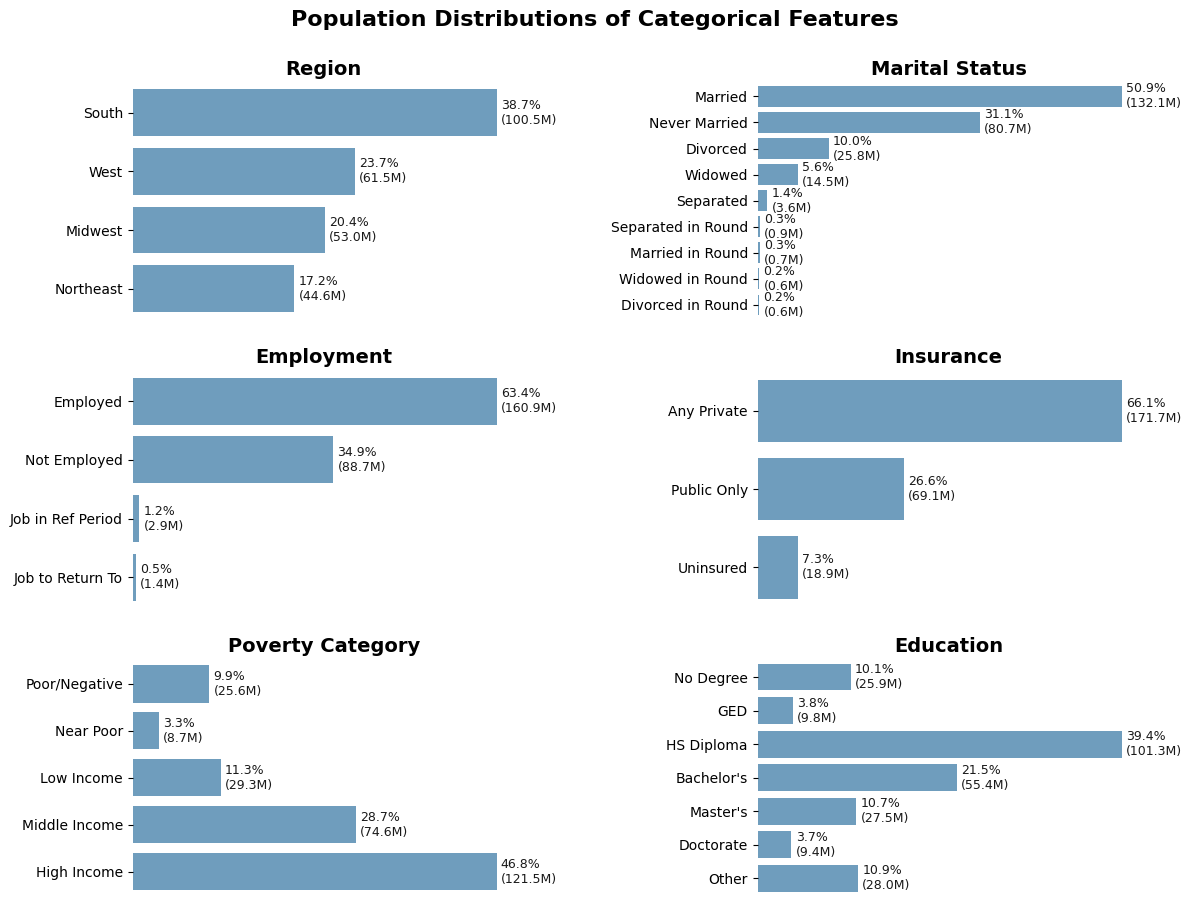
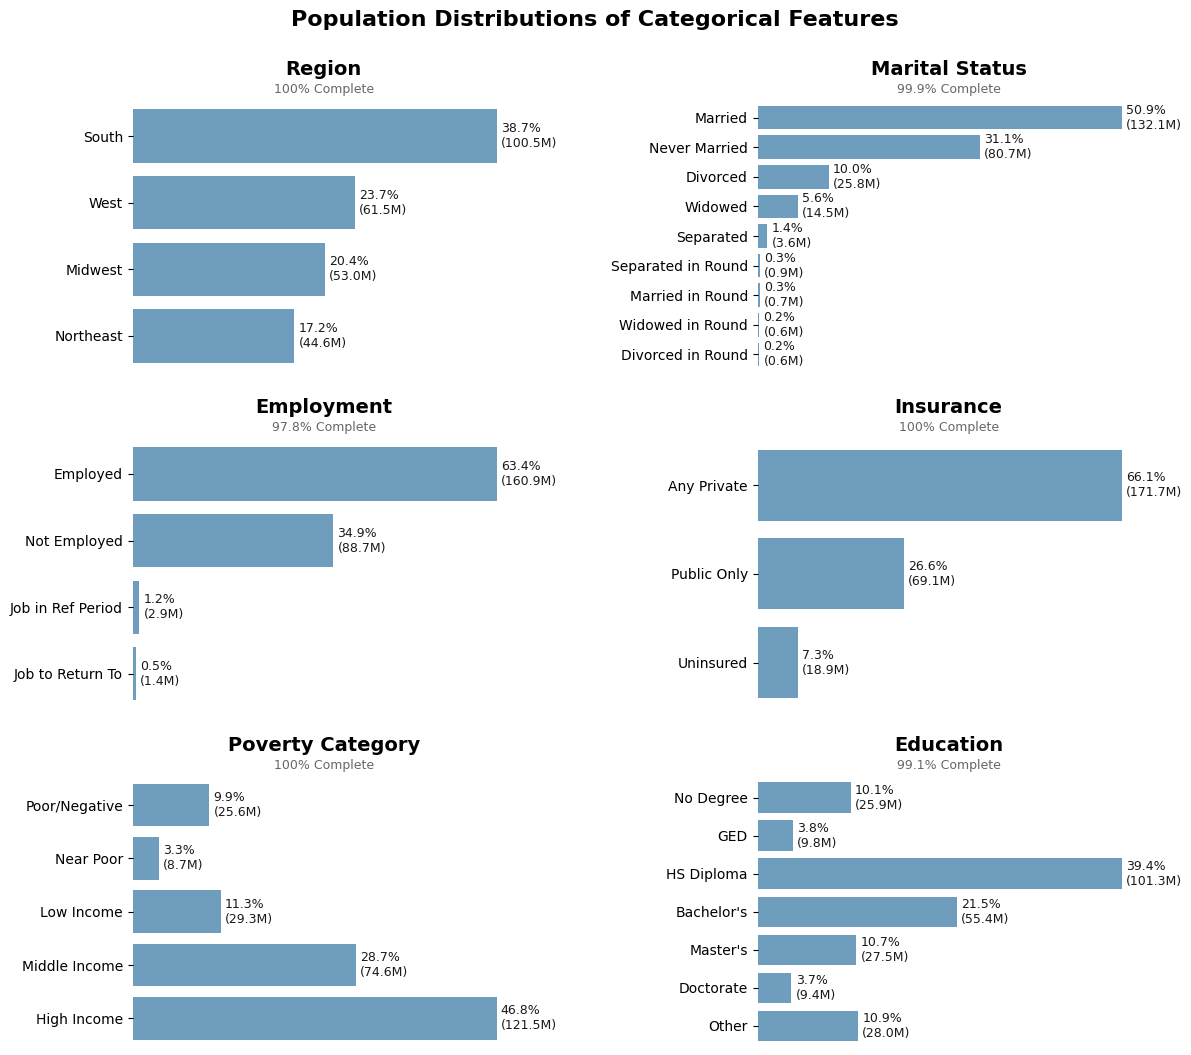
feat(eda): add helper function to plot binary distributions for sample and population

diff --git a/notebooks/medical_cost_prediction.py b/notebooks/medical_cost_prediction.py
@@ -1152,11 +1152,11 @@ plt.show()
 # </div>
 #
 # <div style="background-color:#fff6e4; padding:15px; border:3px solid #f5ecda; border-radius:6px;">
-#     📌 Visualize the distributions of nominal and ordinal features for sample and population. 
+#     📌 Visualize the distributions of categorical (nominal and ordinal) features for sample and population. 
 # </div>
 
 # %%
-# Helper Function: Plot the Distributions of Categorical (Nominal + Ordinal) Features
+# Helper Function: Plot the Distributions of Categorical Features
 def plot_categorical_distributions(df, nominal_features, ordinal_features, display_labels=None, categorical_label_map=None, weights=None):
     # Define subplot matrix grid
     n_plots = len(nominal_features + ordinal_features)
@@ -1236,11 +1236,12 @@ def plot_categorical_distributions(df, nominal_features, ordinal_features, displ
     plt.show()
 
 
-# Plot sample distributions (unweighted) of nominal and ordinal features (binary features in a separate plot)
+# Plot sample distributions (unweighted) of categorical features (binary features in a separate plot)
 plot_categorical_distributions(df, nominal_features, ordinal_features, display_labels, categorical_label_map)  
 
-# Plot population distributions (weighted) of nominal and ordinal features
+# Plot population distributions (weighted) of categorical features
 plot_categorical_distributions(df, nominal_features, ordinal_features, display_labels, categorical_label_map, weights="PERWT23F") 
+
 
 # %% [markdown]
 # <div style="background-color:#fff6e4; padding:15px; border:3px solid #f5ecda; border-radius:6px;">
@@ -1248,115 +1249,90 @@ plot_categorical_distributions(df, nominal_features, ordinal_features, display_l
 # </div>
 
 # %%
-# Sample Distributions (Unweighted) of Binary Features
-# Create 4x4 subplot matrix
-fig, axes = plt.subplots(4, 4, figsize=(12, 9))
-
-# Flatten axes for easier iteration
-axes = axes.flat
-
-# Iterate over all binary features
-for i, feature in enumerate(binary_features):
-    # Get current axes
-    ax = axes[i]
-
-    # Calculate unweighted sample frequencies for current feature
-    sample_counts = df[feature].value_counts().sort_index(ascending=False)
-    sample_percentages = sample_counts / sample_counts.sum() * 100
+# Helper Function: Plot the Distributions of Binary Features
+def plot_binary_distributions(df, binary_features, display_labels=None, categorical_label_map=None, weights=None):
+    # Define subplot matrix grid
+    n_plots = len(binary_features)
+    n_cols = 4
+    n_rows = math.ceil(n_plots / n_cols)
     
-    # Map integer to string labels for current feature
-    feature_label_map = categorical_label_map.get(feature, {})  
-    string_labels = [feature_label_map.get(label, label) for label in sample_percentages.index]  # Fallback to int if no str mapped
-     
-    # Create bar plot of current feature
-    sns.barplot(
-        x=sample_percentages.values,
-        y=string_labels,
-        ax=ax,
-        alpha=0.7
-    )
-
-    # Add value labels on bars
-    value_labels = [f"{pct:.1f}%\n({count:,})" for count, pct in zip(sample_counts, sample_percentages)]
-    for container in ax.containers:
-        ax.bar_label(container, labels=value_labels, padding=3, fontsize=9, alpha=0.9)
-
-    # Calculate completion rate
-    completion_rate = df[feature].count() / len(df) * 100
-    completion_label = "100% Complete" if completion_rate >= 99.95 else f"{completion_rate:.1f}% Complete"
-
-    # Customize current bar plot
-    ax.set_title(display_labels.get(feature, feature), fontsize=12, fontweight="bold", pad=18)
-    ax.annotate(completion_label, xy=(0.5, 1), xytext=(0, 4),
-                xycoords="axes fraction", textcoords="offset points",
-                ha="center", va="bottom", fontsize=8, color="#666666")
-    ax.set_xlabel("")
-    ax.set_ylabel("")
-    ax.set_xticks([])  # Remove x-axis tick marks and labels
-    sns.despine(ax=ax, left=True, bottom=True)  # Removes all 4 borders
-
-# Customize bar plot matrix
-fig.suptitle("Sample Distributions of Binary Features", fontsize=16, fontweight="bold", y=1)
-fig.tight_layout(h_pad=3.0, w_pad=8.0)  # Adjust layout to prevent overlapping subplots
-
-# Show bar plot matrix
-plt.show()
-
-# %%
-# Population Distributions (Weighted) of Binary Features
-# Create 4x4 subplot matrix
-fig, axes = plt.subplots(4, 4, figsize=(12, 9))
-
-# Flatten axes for easier iteration
-axes = axes.flat
-
-# Iterate over all binary features
-for i, feature in enumerate(binary_features):
-    # Get current axes
-    ax = axes[i]
-
-    # Calculate weighted population frequencies for current feature
-    pop_counts = df.groupby(feature)["PERWT23F"].sum().sort_index(ascending=False)
-    pop_percentages = pop_counts / pop_counts.sum() * 100
+    # Create subplot matrix
+    fig, axes = plt.subplots(n_rows, n_cols, figsize=(n_cols * 3, n_rows * 2))
     
-    # Map integer to string labels for current feature
-    feature_label_map = categorical_label_map.get(feature, {})  
-    string_labels = [feature_label_map.get(label, label) for label in pop_percentages.index]  # Fallback to int if no str mapped
-     
-    # Create bar plot of current feature
-    sns.barplot(
-        x=pop_percentages.values,
-        y=string_labels,
-        ax=ax,
-        alpha=0.7
-    )
+    # Flatten axes for easier iteration
+    axes_flat = axes.flat
+    
+    # Iterate over all categorical features
+    for i, feature in enumerate(binary_features):
+        # Get current axes
+        ax = axes_flat[i]
+    
+        # Population (weighted)
+        if weights: 
+            # Calculate counts 
+            counts = df.groupby(feature)[weights].sum()  
+            # Calculate completion rate
+            completion_rate = df.loc[df[feature].notna(), weights].sum() / df[weights].sum() * 100
+        # Sample (unweighted)
+        else:   
+            counts = df[feature].value_counts()  
+            completion_rate = df[feature].count() / len(df) * 100
 
-    # Add value labels on bars
-    value_labels = [f"{pct:.1f}%\n({count/1e6:.1f}M)" for count, pct in zip(pop_counts, pop_percentages)]
-    for container in ax.containers:
-        ax.bar_label(container, labels=value_labels, padding=3, fontsize=9, alpha=0.9)
+        # Sort categories
+        counts = counts.sort_index(ascending=False)  # Sorts "No" (2) before "Yes" (1)
+        
+        # Calculate percentages
+        percentages = counts / counts.sum() * 100
+        
+        # Map integer to string labels for current feature
+        feature_label_map = categorical_label_map.get(feature, {})  
+        string_labels = [feature_label_map.get(label, label) for label in percentages.index]  # Fallback to int if no str mapped
+         
+        # Create bar plot of current feature
+        sns.barplot(
+            x=percentages.values,
+            y=string_labels,
+            ax=ax,
+            alpha=0.7
+        )
+    
+        # Add value labels on bars
+        if weights:
+            value_labels = [f"{pct:.1f}%\n({count/1e6:.1f}M)" for pct, count in zip(percentages, counts)]
+        else:
+            value_labels = [f"{pct:.1f}%\n({count:,})" for pct, count in zip(percentages, counts)]
+        for container in ax.containers:
+            ax.bar_label(container, labels=value_labels, padding=3, fontsize=8, alpha=0.9)
+    
+        # Customize current bar plot
+        ax.set_title(display_labels.get(feature, feature), fontsize=12, fontweight="bold", pad=18)
+        completion_rate_label = "100% Complete" if completion_rate >= 99.95 else f"{completion_rate:.1f}% Complete"
+        ax.annotate(  # Annotates completion rate under title
+            completion_rate_label, xy=(0.5, 1), xytext=(0, 4), xycoords="axes fraction", textcoords="offset points", 
+            ha="center", va="bottom", fontsize=8, color="#666666"
+        )
+        ax.set_xlabel("")
+        ax.set_ylabel("")
+        ax.set_xticks([])  # Removes x-axis tick marks and labels
+        sns.despine(ax=ax, left=True, bottom=True)  # Removes all 4 borders
 
-    # Calculate completion rate
-    completion_rate = df.loc[df[feature].notna(), "PERWT23F"].sum() / df["PERWT23F"].sum() * 100
-    completion_label = "100% Complete" if completion_rate >= 99.95 else f"{completion_rate:.1f}% Complete"
+    # Hides unused subplots
+    for j in range(i + 1, len(axes_flat)):
+        axes_flat[j].axis("off")  
 
-    # Customize current bar plot
-    ax.set_title(display_labels.get(feature, feature), fontsize=12, fontweight="bold", pad=18)
-    ax.annotate(completion_label, xy=(0.5, 1), xytext=(0, 4),
-                xycoords="axes fraction", textcoords="offset points",
-                ha="center", va="bottom", fontsize=8, color="#666666")
+    # Customize bar plot matrix
+    fig.suptitle(f"{'Population' if weights else 'Sample'} Distributions of Categorical Features", fontsize=16, fontweight="bold", y=1)
+    fig.tight_layout(h_pad=3.0, w_pad=8.0)  # Adjusts layout to prevent overlapping subplots
+    
+    # Show bar plot matrix
+    plt.show()
 
-    ax.set_xlabel("")
-    ax.set_ylabel("")
-    ax.set_xticks([])  # Remove x-axis tick marks and labels
-    sns.despine(ax=ax, left=True, bottom=True)  # Removes all 4 borders
 
-# Customize bar plot matrix
-fig.suptitle("Population Distributions of Binary Features", fontsize=16, fontweight="bold", y=1)
-fig.tight_layout(h_pad=3.0, w_pad=8.0)  # Adjust layout to prevent overlapping subplots
+# Plot sample distributions (unweighted) of binary features 
+plot_binary_distributions(df, binary_features, display_labels, categorical_label_map)  
 
-# Show bar plot matrix
-plt.show()
+# Plot population distributions (weighted) of binary features
+plot_binary_distributions(df, binary_features, display_labels, categorical_label_map, weights="PERWT23F") 
 
 # %% [markdown]
 # <div style="background-color:#f7fff8; padding:15px; border:3px solid #e0f0e0; border-radius:6px;">
